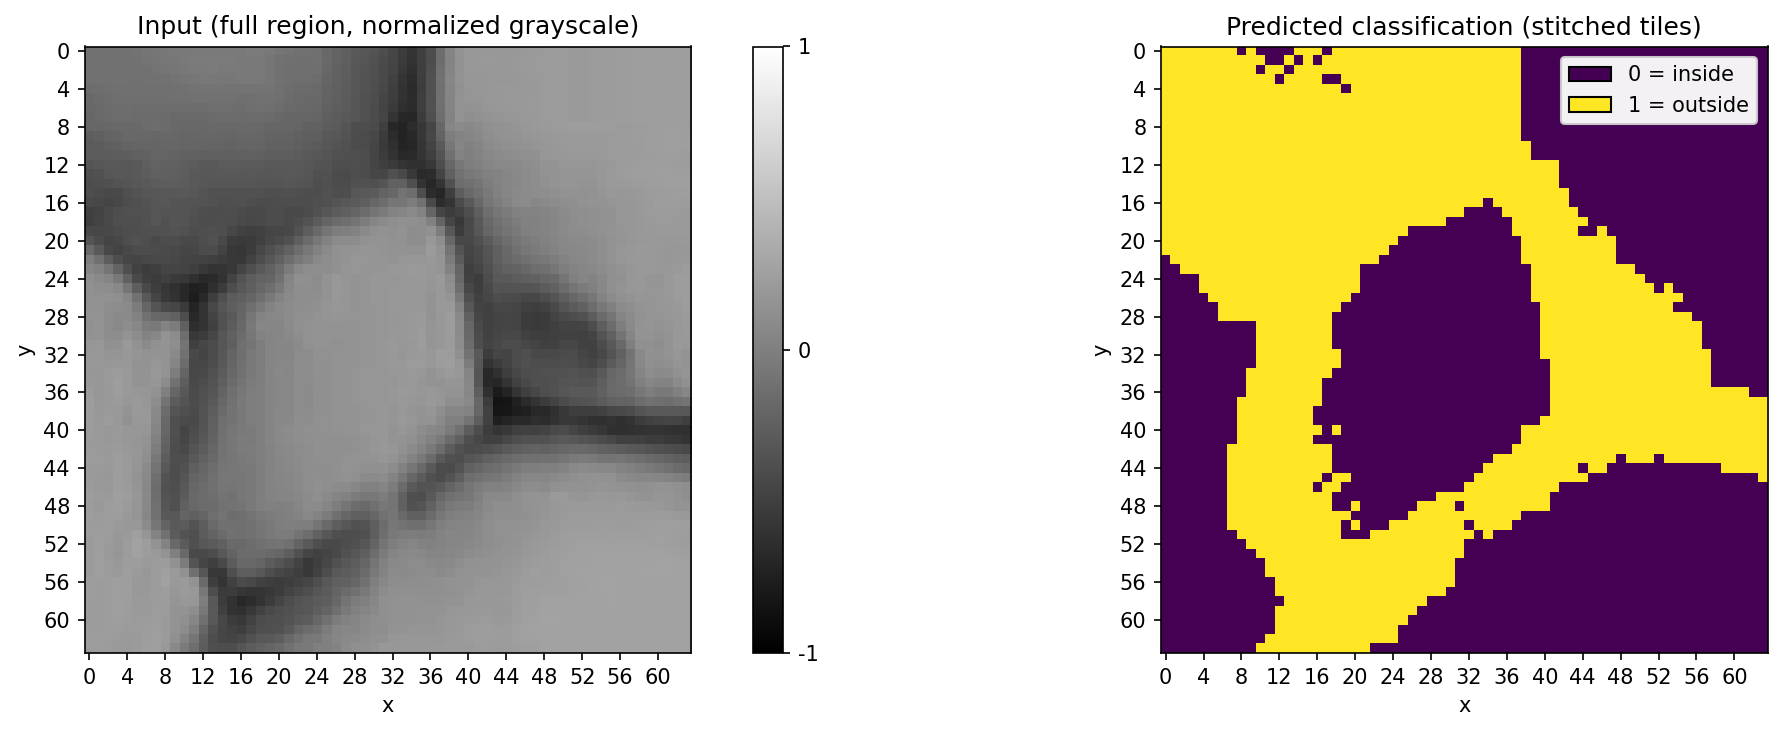
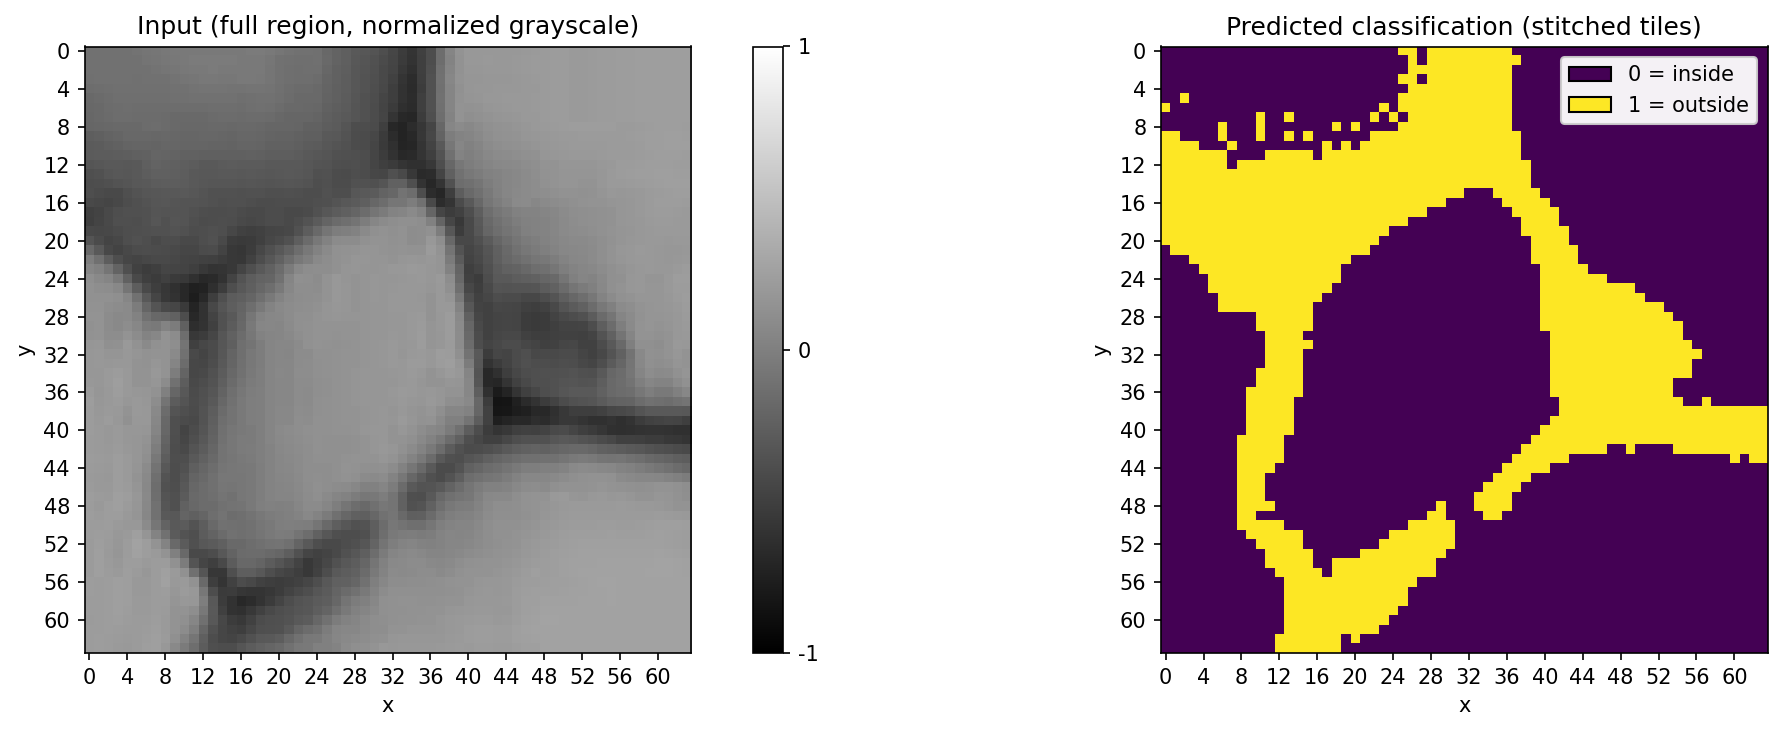
adjusted bias defaults

diff --git a/ehands_qcrank_vertex_classification_flat.py b/ehands_qcrank_vertex_classification_flat.py
@@ -904,7 +904,7 @@ def test_qcrank_ehands_c_classify_flat_image(
     region_width=None,
     region_height=None,
     isovalue_mode="auto_median",
-    inside_bias=0.06,
+    inside_bias=0,
 ):
     """
     Classify image data in non-overlapping tiles of size tile_width x tile_height.
@@ -1431,7 +1431,7 @@ if __name__ == "__main__":
     parser.add_argument(
         "--inside-bias",
         type=float,
-        default=0.06,
+        default=0.0,
         help=(
             "Test 4 only: subtract this from the chosen isovalue (after auto median or fixed). "
             "Positive values favor class 0 ('inside'). Use 0 to disable. Default: 0.06."
